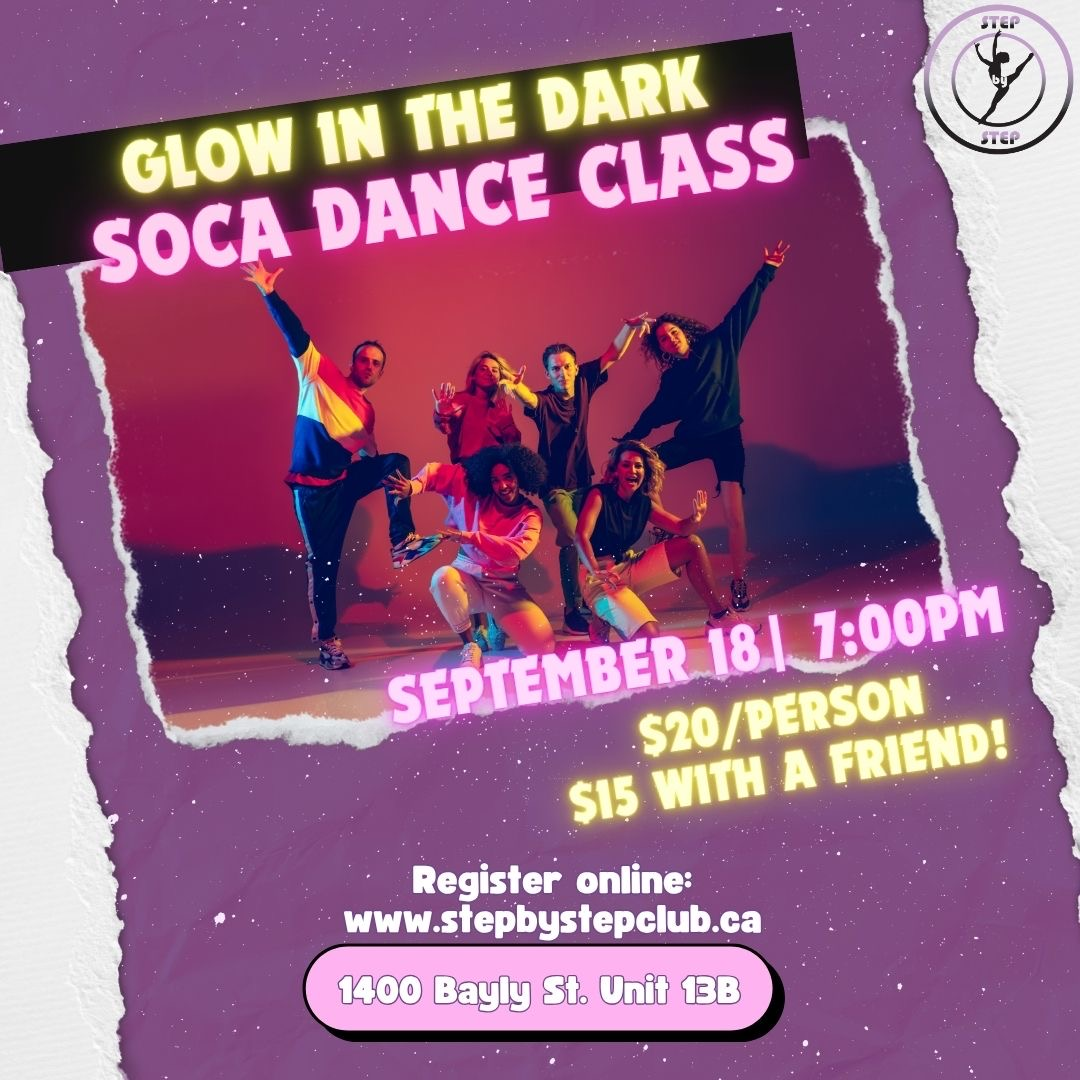
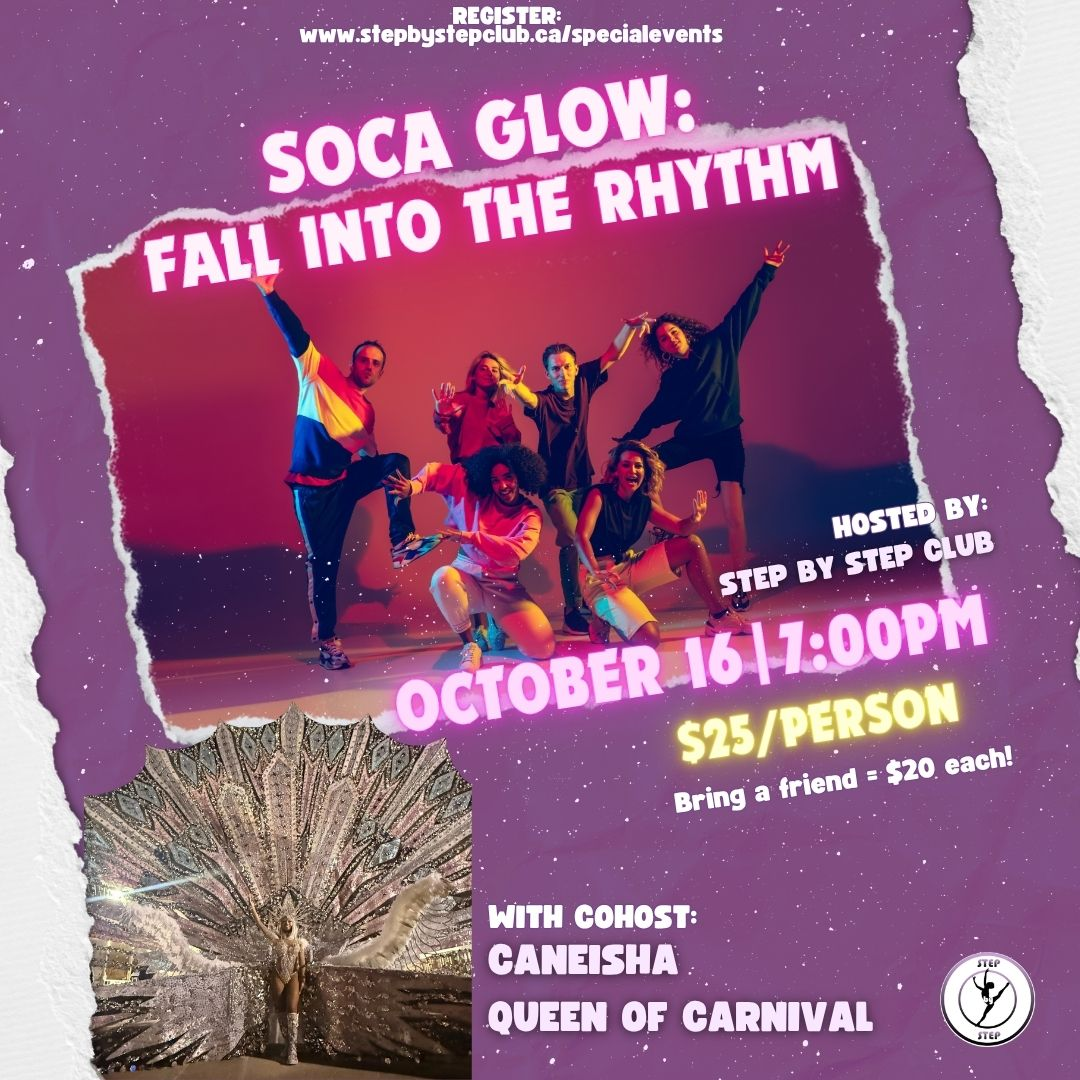
add special event image and link

diff --git a/client/src/pages/SpecialEvents/SpecialEvents.js b/client/src/pages/SpecialEvents/SpecialEvents.js
@@ -6,6 +6,7 @@ import specialEvents8 from "../../assets/images/strollerfit.jpeg";
 import specialEvents10 from "../../assets/images/cinderella.jpeg";
 import specialEvents11 from "../../assets/images/halloweenparty.jpeg";
 import specialEvents12 from "../../assets/images/trickortreat.jpeg";
+import specialEvents13 from "../../assets/images/soca.JPEG";
 
 const SpecialEvents = () => {
   const [selectedMedia, setSelectedMedia] = useState(null);
@@ -60,6 +61,13 @@ const SpecialEvents = () => {
     openRegistrationLink(
       "  https://www.wellnessliving.com/rs/event/step_by_step_club?k_class=859474&k_class_tab=66373",
       "halloween",
+    );
+  };
+
+     const linkToBuyTickets11 = () => {
+    openRegistrationLink(
+      "  https://www.wellnessliving.com/rs/event/step_by_step_club?k_class=994471&k_class_tab=66373",
+      "soca",
     );
   };
 
@@ -175,6 +183,22 @@ const SpecialEvents = () => {
           <button
             className="special-events__button"
             onClick={linkToBuyTickets10}
+          >
+            Click Here to Register!
+          </button>
+        </div>
+      </div>
+           <div className="special-events__card-wrapper">
+        <div className="special-events__image-container">
+          <img
+            src={specialEvents13}
+            alt="Special Event"
+            className="special-events__image"
+            onClick={() => openMedia(specialEvents13)}
+          />
+          <button
+            className="special-events__button"
+            onClick={linkToBuyTickets11}
           >
             Click Here to Register!
           </button>
